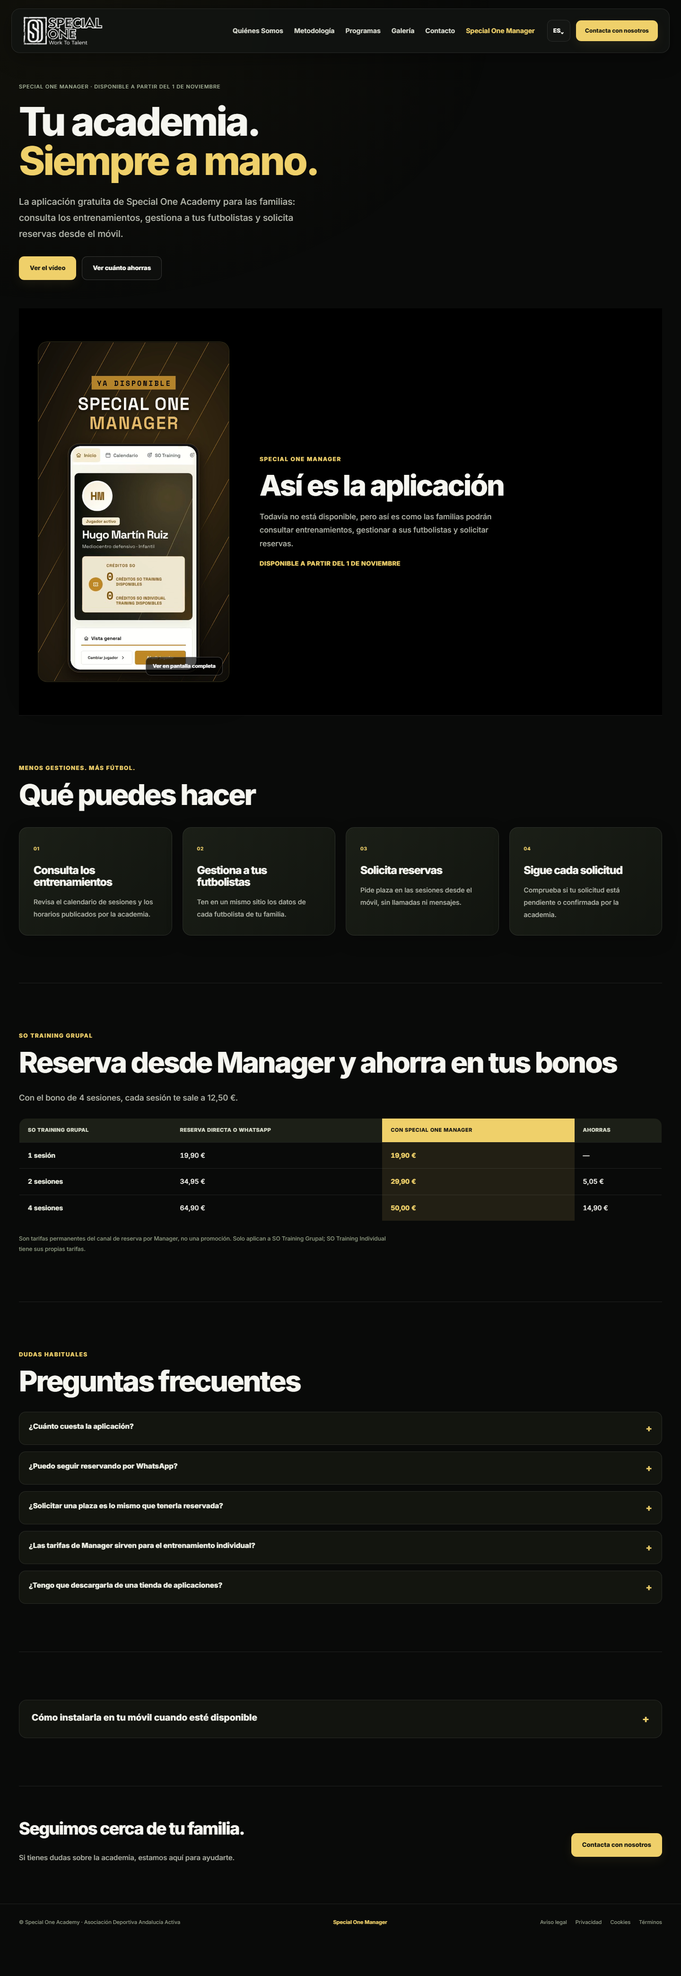
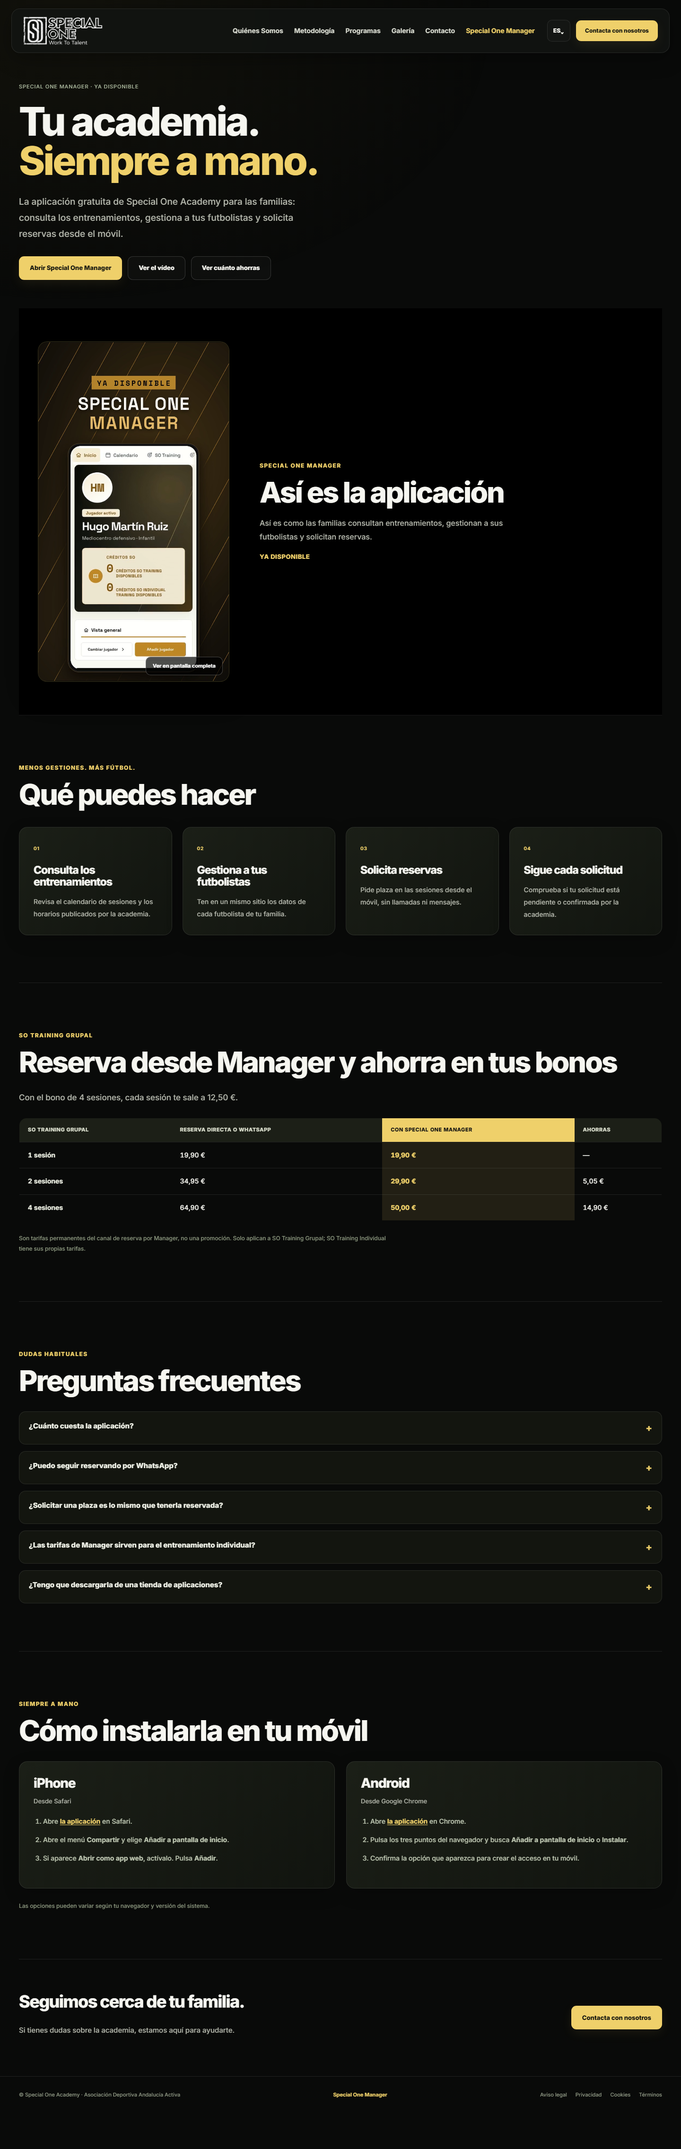
Prepare Special One Manager launch day branch
Add a single source of truth for the app URL (assets/app-config.js,
window.SOA_APP_URL = "APP_URL_PENDIENTE") wired at runtime via
site-shell.js to every access button/link (data-app-link attribute):
the homepage Manager block CTA, the Manager page's new primary "Abrir
Special One Manager" button, and the first install step for iPhone and
Android.

Flip all "coming soon" messaging to "Ya disponible", unfold the
install guide (no longer behind <details>, title drops "cuando esté
disponible"), update the video intro copy to present tense, remove
noindex/nofollow from special-one-manager.html and add canonical + Open
Graph tags (image = video poster), and list the page in sitemap.xml.

To go live: edit specialone-vercel-clean/assets/app-config.js only.

diff --git a/specialone-vercel-clean/special-one-manager.html b/specialone-vercel-clean/special-one-manager.html
@@ -6,7 +6,13 @@
 <meta content="width=device-width,initial-scale=1" name="viewport"/>
 <title>Special One Manager · Tu academia, más cerca</title>
 <meta content="Conoce Special One Manager: la aplicación gratuita de Special One Academy para que las familias consulten entrenamientos, gestionen futbolistas y soliciten reservas." name="description"/>
-<meta content="noindex,nofollow" name="robots"/>
+<meta content="index, follow" name="robots"/>
+<link href="https://www.academiaspecialone.es/special-one-manager.html" rel="canonical"/>
+<meta content="Special One Manager | Special One Academy" property="og:title"/>
+<meta content="La aplicación gratuita de Special One Academy para las familias: consulta entrenamientos, gestiona futbolistas y solicita reservas." property="og:description"/>
+<meta content="website" property="og:type"/>
+<meta content="https://www.academiaspecialone.es/special-one-manager.html" property="og:url"/>
+<meta content="https://www.academiaspecialone.es/assets/manager-poster.jpg" property="og:image"/>
 <link href="https://fonts.googleapis.com" rel="preconnect"/>
 <link crossorigin="" href="https://fonts.gstatic.com" rel="preconnect"/>
 <link href="https://fonts.googleapis.com/css2?family=Inter:wght@500;700;800;900&amp;display=swap" rel="stylesheet"/>
@@ -30,11 +36,12 @@
 </header>
 <main>
 <section aria-labelledby="manager-title" class="manager-intro">
-<div class="manager-label" data-en="SPECIAL ONE MANAGER · AVAILABLE FROM NOVEMBER 1" data-es="SPECIAL ONE MANAGER · DISPONIBLE A PARTIR DEL 1 DE NOVIEMBRE">SPECIAL ONE MANAGER · DISPONIBLE A PARTIR DEL 1 DE NOVIEMBRE</div>
+<div class="manager-label" data-en="SPECIAL ONE MANAGER · AVAILABLE NOW" data-es="SPECIAL ONE MANAGER · YA DISPONIBLE">SPECIAL ONE MANAGER · YA DISPONIBLE</div>
 <h1 data-en="Your academy.&lt;br&gt;&lt;span&gt;Always at hand.&lt;/span&gt;" data-es="Tu academia.&lt;br&gt;&lt;span&gt;Siempre a mano.&lt;/span&gt;" data-rich="" id="manager-title">Tu academia.<br/><span>Siempre a mano.</span></h1>
 <p class="manager-lead" data-en="Special One Academy's free app for families: check training sessions, manage your players and request bookings from your phone." data-es="La aplicación gratuita de Special One Academy para las familias: consulta los entrenamientos, gestiona a tus futbolistas y solicita reservas desde el móvil.">La aplicación gratuita de Special One Academy para las familias: consulta los entrenamientos, gestiona a tus futbolistas y solicita reservas desde el móvil.</p>
 <div class="manager-hero-actions">
-<a class="btn" data-en="Watch the video" data-es="Ver el vídeo" href="#video-manager">Ver el vídeo</a>
+<a class="btn" data-app-link="" data-en="Open Special One Manager" data-es="Abrir Special One Manager" href="#video-manager">Abrir Special One Manager</a>
+<a class="btn secondary" data-en="Watch the video" data-es="Ver el vídeo" href="#video-manager">Ver el vídeo</a>
 <a class="btn secondary" data-en="See how much you save" data-es="Ver cuánto ahorras" href="#ahorro">Ver cuánto ahorras</a>
 </div>
 </section>
@@ -47,8 +54,8 @@
 <div class="manager-video-copy">
 <div class="manager-kicker" data-en="Special One Manager" data-es="Special One Manager">Special One Manager</div>
 <h2 data-en="This is the app" data-es="Así es la aplicación">Así es la aplicación</h2>
-<p data-en="Still not available, but this is how families will check training sessions, manage players and request bookings." data-es="Todavía no está disponible, pero así es como las familias podrán consultar entrenamientos, gestionar a sus futbolistas y solicitar reservas.">Todavía no está disponible, pero así es como las familias podrán consultar entrenamientos, gestionar a sus futbolistas y solicitar reservas.</p>
-<p class="manager-video-caption video-launch-status" data-en="AVAILABLE FROM NOVEMBER 1" data-es="DISPONIBLE A PARTIR DEL 1 DE NOVIEMBRE">DISPONIBLE A PARTIR DEL 1 DE NOVIEMBRE</p>
+<p data-en="This is how families check training sessions, manage players and request bookings." data-es="Así es como las familias consultan entrenamientos, gestionan a sus futbolistas y solicitan reservas.">Así es como las familias consultan entrenamientos, gestionan a sus futbolistas y solicitan reservas.</p>
+<p class="manager-video-caption video-launch-status" data-en="AVAILABLE NOW" data-es="YA DISPONIBLE">YA DISPONIBLE</p>
 </div>
 </div>
 </section>
@@ -92,14 +99,13 @@
 </div>
 </section>
 <section aria-labelledby="install-title" class="manager-section" id="instalar">
-<details class="install-details">
-<summary data-en="How to install it on your phone once it's available" data-es="Cómo instalarla en tu móvil cuando esté disponible" id="install-title">Cómo instalarla en tu móvil cuando esté disponible</summary>
+<div class="manager-kicker" data-en="Always at hand" data-es="Siempre a mano">Siempre a mano</div>
+<h2 data-en="How to install it on your phone" data-es="Cómo instalarla en tu móvil" id="install-title">Cómo instalarla en tu móvil</h2>
 <div class="manager-install">
-<article class="manager-device"><h3>iPhone</h3><p data-en="Using Safari" data-es="Desde Safari">Desde Safari</p><ol><li data-en="Open the app in Safari." data-es="Abre la aplicación en Safari.">Abre la aplicación en Safari.</li><li data-en="Tap &lt;strong&gt;Share&lt;/strong&gt;, then &lt;strong&gt;Add to Home Screen&lt;/strong&gt;." data-es="Abre el menú &lt;strong&gt;Compartir&lt;/strong&gt; y elige &lt;strong&gt;Añadir a pantalla de inicio&lt;/strong&gt;." data-rich="">Abre el menú <strong>Compartir</strong> y elige <strong>Añadir a pantalla de inicio</strong>.</li><li data-en="If &lt;strong&gt;Open as Web App&lt;/strong&gt; appears, turn it on. Tap &lt;strong&gt;Add&lt;/strong&gt;." data-es="Si aparece &lt;strong&gt;Abrir como app web&lt;/strong&gt;, actívalo. Pulsa &lt;strong&gt;Añadir&lt;/strong&gt;." data-rich="">Si aparece <strong>Abrir como app web</strong>, actívalo. Pulsa <strong>Añadir</strong>.</li></ol></article>
-<article class="manager-device"><h3>Android</h3><p data-en="Using Google Chrome" data-es="Desde Google Chrome">Desde Google Chrome</p><ol><li data-en="Open the app in Chrome." data-es="Abre la aplicación en Chrome.">Abre la aplicación en Chrome.</li><li data-en="Tap the three-dot browser menu and choose &lt;strong&gt;Add to Home Screen&lt;/strong&gt; or &lt;strong&gt;Install&lt;/strong&gt;." data-es="Pulsa los tres puntos del navegador y busca &lt;strong&gt;Añadir a pantalla de inicio&lt;/strong&gt; o &lt;strong&gt;Instalar&lt;/strong&gt;." data-rich="">Pulsa los tres puntos del navegador y busca <strong>Añadir a pantalla de inicio</strong> o <strong>Instalar</strong>.</li><li data-en="Confirm the option shown to add the app to your phone." data-es="Confirma la opción que aparezca para crear el acceso en tu móvil.">Confirma la opción que aparezca para crear el acceso en tu móvil.</li></ol></article>
+<article class="manager-device"><h3>iPhone</h3><p data-en="Using Safari" data-es="Desde Safari">Desde Safari</p><ol><li>Abre <a data-app-link="" href="#">la aplicación</a> en Safari.</li><li data-en="Tap &lt;strong&gt;Share&lt;/strong&gt;, then &lt;strong&gt;Add to Home Screen&lt;/strong&gt;." data-es="Abre el menú &lt;strong&gt;Compartir&lt;/strong&gt; y elige &lt;strong&gt;Añadir a pantalla de inicio&lt;/strong&gt;." data-rich="">Abre el menú <strong>Compartir</strong> y elige <strong>Añadir a pantalla de inicio</strong>.</li><li data-en="If &lt;strong&gt;Open as Web App&lt;/strong&gt; appears, turn it on. Tap &lt;strong&gt;Add&lt;/strong&gt;." data-es="Si aparece &lt;strong&gt;Abrir como app web&lt;/strong&gt;, actívalo. Pulsa &lt;strong&gt;Añadir&lt;/strong&gt;." data-rich="">Si aparece <strong>Abrir como app web</strong>, actívalo. Pulsa <strong>Añadir</strong>.</li></ol></article>
+<article class="manager-device"><h3>Android</h3><p data-en="Using Google Chrome" data-es="Desde Google Chrome">Desde Google Chrome</p><ol><li>Abre <a data-app-link="" href="#">la aplicación</a> en Chrome.</li><li data-en="Tap the three-dot browser menu and choose &lt;strong&gt;Add to Home Screen&lt;/strong&gt; or &lt;strong&gt;Install&lt;/strong&gt;." data-es="Pulsa los tres puntos del navegador y busca &lt;strong&gt;Añadir a pantalla de inicio&lt;/strong&gt; o &lt;strong&gt;Instalar&lt;/strong&gt;." data-rich="">Pulsa los tres puntos del navegador y busca <strong>Añadir a pantalla de inicio</strong> o <strong>Instalar</strong>.</li><li data-en="Confirm the option shown to add the app to your phone." data-es="Confirma la opción que aparezca para crear el acceso en tu móvil.">Confirma la opción que aparezca para crear el acceso en tu móvil.</li></ol></article>
 </div>
-<p class="manager-note" data-en="Options vary by browser and operating system. Add the app, not this presentation page." data-es="Las opciones pueden variar según tu navegador y versión del sistema. Añade la aplicación, no esta página de presentación.">Las opciones pueden variar según tu navegador y versión del sistema. Añade la aplicación, no esta página de presentación.</p>
-</details>
+<p class="manager-note" data-en="Options vary by browser and operating system." data-es="Las opciones pueden variar según tu navegador y versión del sistema.">Las opciones pueden variar según tu navegador y versión del sistema.</p>
 </section>
 <section class="manager-finish"><div><h2 data-en="Closer to your family." data-es="Seguimos cerca de tu familia.">Seguimos cerca de tu familia.</h2><p data-en="If you have questions about the academy, we are here to help." data-es="Si tienes dudas sobre la academia, estamos aquí para ayudarte.">Si tienes dudas sobre la academia, estamos aquí para ayudarte.</p></div><a class="btn" data-en="Contact us" data-es="Contacta con nosotros" href="/#contacto">Contacta con nosotros</a></section>
 </main>
@@ -128,5 +134,6 @@ document.querySelector('.lang').addEventListener('click',()=>applyManagerLanguag
   else if(video.webkitEnterFullscreen) video.webkitEnterFullscreen();
  });
 })();
-</script><script src="assets/site-shell.js?v=1"></script></body>
+</script><script src="assets/app-config.js?v=1"></script>
+<script src="assets/site-shell.js?v=1"></script></body>
 </html>

diff --git a/specialone-vercel-clean/index.html b/specialone-vercel-clean/index.html
@@ -72,7 +72,7 @@ gtag("config", "G-HH45EVVGY7");
 </div>
 </header>
 <div id="season-floating-banner" role="region"><div class="season-bar"><button class="season-cta" data-en="Enrollment open in SO Training · Request a place →" data-es="Inscripciones abiertas en SO Training · Solicitar plaza →" onclick="openTally('NpMjqB')" type="button">Inscripciones abiertas en SO Training · Solicitar plaza →</button><button aria-label="Cerrar aviso" id="season-close" type="button">×</button></div></div>
-<section aria-labelledby="hero-title" class="hero"><div class="hero-stage container"><div class="hero-photo"><img alt="Jugador de Special One Academy durante un entrenamiento" fetchpriority="high" height="1440" src="assets/img/hero.jpg" width="1920"/></div><div class="hero-copy"><div class="hero-brandline" data-en="SPECIAL ONE ACADEMY · WORK TO TALENT" data-es="SPECIAL ONE ACADEMY · WORK TO TALENT">SPECIAL ONE ACADEMY · WORK TO TALENT</div><h1 data-en="Football training academy in Seville" data-es="Academia de tecnificación de fútbol en Sevilla" id="hero-title">Academia de tecnificación de fútbol en Sevilla</h1><p data-en="Specific training, close attention and qualified coaches to complement the work the player does at their club." data-es="Entrenamiento específico, atención cercana y entrenadores cualificados para complementar el trabajo que el futbolista hace en su club.">Entrenamiento específico, atención cercana y entrenadores cualificados para complementar el trabajo que el futbolista hace en su club.</p><div class="hero-actions"><a class="btn" data-en="See programs" data-es="Ver programas" href="#programas">Ver programas</a><a class="btn secondary" data-en="Talk on WhatsApp" data-es="Hablar por WhatsApp" href="https://wa.me/34614806029" rel="noopener" target="_blank">Hablar por WhatsApp</a></div><div class="hero-signature" data-en="Players and goalkeepers · Work To Talent" data-es="Jugadores, jugadoras y porteros · Work To Talent">Jugadores, jugadoras y porteros · Work To Talent</div></div><aside aria-labelledby="hero-manager-title" class="hero-manager"><div class="eyebrow" data-en="AVAILABLE FROM NOVEMBER 1" data-es="DISPONIBLE A PARTIR DEL 1 DE NOVIEMBRE">DISPONIBLE A PARTIR DEL 1 DE NOVIEMBRE</div><h2 data-en="Special One Manager, the academy's app for families" data-es="Special One Manager, la app de la academia para las familias" id="hero-manager-title">Special One Manager, la app de la academia para las familias</h2><div class="video-shell"><video aria-label="Vídeo de presentación de Special One Manager" class="manager-film" controls="" playsinline="" poster="assets/manager-poster.jpg" preload="metadata"><source src="assets/special-one-manager.mp4" type="video/mp4"/></video><p class="video-launch-status" data-en="AVAILABLE FROM NOVEMBER 1" data-es="DISPONIBLE A PARTIR DEL 1 DE NOVIEMBRE">DISPONIBLE A PARTIR DEL 1 DE NOVIEMBRE</p></div><p data-en="Check training sessions and request bookings from your phone. And if you book your SO Training Group bundles through the app, each session costs less." data-es="Consulta entrenamientos y solicita reservas desde el móvil. Y si reservas tus bonos de SO Training Grupal desde la app, cada sesión te sale más barata.">Consulta entrenamientos y solicita reservas desde el móvil. Y si reservas tus bonos de SO Training Grupal desde la app, cada sesión te sale más barata.</p><a class="btn hero-manager-cta" data-en="Discover Special One Manager →" data-es="Conocer Special One Manager →" href="/special-one-manager.html">Conocer Special One Manager →</a></aside></div></section>
+<section aria-labelledby="hero-title" class="hero"><div class="hero-stage container"><div class="hero-photo"><img alt="Jugador de Special One Academy durante un entrenamiento" fetchpriority="high" height="1440" src="assets/img/hero.jpg" width="1920"/></div><div class="hero-copy"><div class="hero-brandline" data-en="SPECIAL ONE ACADEMY · WORK TO TALENT" data-es="SPECIAL ONE ACADEMY · WORK TO TALENT">SPECIAL ONE ACADEMY · WORK TO TALENT</div><h1 data-en="Football training academy in Seville" data-es="Academia de tecnificación de fútbol en Sevilla" id="hero-title">Academia de tecnificación de fútbol en Sevilla</h1><p data-en="Specific training, close attention and qualified coaches to complement the work the player does at their club." data-es="Entrenamiento específico, atención cercana y entrenadores cualificados para complementar el trabajo que el futbolista hace en su club.">Entrenamiento específico, atención cercana y entrenadores cualificados para complementar el trabajo que el futbolista hace en su club.</p><div class="hero-actions"><a class="btn" data-en="See programs" data-es="Ver programas" href="#programas">Ver programas</a><a class="btn secondary" data-en="Talk on WhatsApp" data-es="Hablar por WhatsApp" href="https://wa.me/34614806029" rel="noopener" target="_blank">Hablar por WhatsApp</a></div><div class="hero-signature" data-en="Players and goalkeepers · Work To Talent" data-es="Jugadores, jugadoras y porteros · Work To Talent">Jugadores, jugadoras y porteros · Work To Talent</div></div><aside aria-labelledby="hero-manager-title" class="hero-manager"><div class="eyebrow" data-en="AVAILABLE NOW" data-es="YA DISPONIBLE">YA DISPONIBLE</div><h2 data-en="Special One Manager, the academy's app for families" data-es="Special One Manager, la app de la academia para las familias" id="hero-manager-title">Special One Manager, la app de la academia para las familias</h2><div class="video-shell"><video aria-label="Vídeo de presentación de Special One Manager" class="manager-film" controls="" playsinline="" poster="assets/manager-poster.jpg" preload="metadata"><source src="assets/special-one-manager.mp4" type="video/mp4"/></video><p class="video-launch-status" data-en="AVAILABLE NOW" data-es="YA DISPONIBLE">YA DISPONIBLE</p></div><p data-en="Check training sessions and request bookings from your phone. And if you book your SO Training Group bundles through the app, each session costs less." data-es="Consulta entrenamientos y solicita reservas desde el móvil. Y si reservas tus bonos de SO Training Grupal desde la app, cada sesión te sale más barata.">Consulta entrenamientos y solicita reservas desde el móvil. Y si reservas tus bonos de SO Training Grupal desde la app, cada sesión te sale más barata.</p><a class="btn hero-manager-cta" data-app-link="" data-en="Open Special One Manager" data-es="Abrir Special One Manager" href="/special-one-manager.html">Abrir Special One Manager</a></aside></div></section>
 <div class="launch-trust container"> <div class="hero-feature">
 <div class="icon-box">
 <svg fill="none" stroke="currentColor" viewbox="0 0 24 24"><path d="M16 21v-2a4 4 0 0 0-8 0v2"></path><circle cx="12" cy="7" r="4"></circle><path d="M22 21v-2a4 4 0 0 0-3-3.87"></path><path d="M2 21v-2a4 4 0 0 1 3-3.87"></path></svg>
@@ -347,5 +347,6 @@ gtag("config", "G-HH45EVVGY7");
 </div>
 </div>
 <script src="assets/script.js?v=16-audit"></script>
+<script src="assets/app-config.js?v=1"></script>
 <script src="assets/site-shell.js?v=1"></script></body>
 </html>

diff --git a/specialone-vercel-clean/assets/site-system.css b/specialone-vercel-clean/assets/site-system.css
@@ -42,7 +42,7 @@
 .install-details[open] summary:after{content:'−'}
 .install-details .manager-install{margin-top:28px}
 @media(max-width:860px){.manager-video-stage{grid-template-columns:1fr;gap:28px}.manager-video-section .video-shell{height:auto;width:100%}.manager-video-section .manager-film{height:auto;width:100%}.manager-video-copy{max-width:100%}}
-@media(max-width:600px){.rates-table thead{display:none}.rates-table,.rates-table tbody,.rates-table tr{display:block;width:100%}.rates-table{border:0}.rates-table tr{margin-bottom:14px;border:1px solid #95844177;border-radius:14px;overflow:hidden;background:#171c12}.rates-table th[scope=row]{display:block;padding:14px 16px 4px;font-size:15px;border-bottom:0}.rates-table td{display:flex;justify-content:space-between;align-items:center;padding:10px 16px;border-bottom:1px solid var(--line);font-size:13px}.rates-table td:last-child{border-bottom:0}.rates-table td:before{content:attr(data-label);color:#9aa38d;font-size:11px;font-weight:700}.rates-table td.rates-table-highlight{background:transparent}.install-details{padding:20px}.install-details summary{font-size:17px}}.manager-number{font-size:10px;letter-spacing:.07em;color:var(--gold);font-weight:700}.manager-note{font-size:12px!important;color:#8f9b82!important;margin:26px 0 0!important}.manager-install{display:grid;grid-template-columns:1fr 1fr;gap:24px;margin-top:32px}.manager-device h3{font-size:28px;margin:0 0 12px}.manager-device p{font-size:13px}.manager-device ol{padding-left:20px;color:#bdc6b1;font-size:14px;line-height:1.9}.manager-device li{padding:6px 0}.manager-finish{display:flex;justify-content:space-between;gap:30px;align-items:center;padding:70px 0}.manager-finish h2{font-size:36px}.manager-finish p{font-size:15px}.training-rates{padding:36px;border:1px solid #95844177;border-radius:22px;background:radial-gradient(ellipse at 100% 0,#8d73241c,transparent 75%),#171c12}.rates-heading{font-size:13px;font-weight:800;letter-spacing:.05em;color:var(--gold);line-height:1.7}.rate-grid{display:grid;grid-template-columns:repeat(3,1fr);gap:30px;margin:30px 0}.rate-grid>div+div{border-left:1px solid var(--line);padding-left:30px}.rate-grid span{display:block;font-size:14px;color:#b9c2ac;margin-bottom:10px}.rate-grid strong{font-size:clamp(30px,3.6vw,54px);line-height:1;font-weight:800;letter-spacing:-.05em;white-space:nowrap}.training-rates>p{font-size:13px;line-height:1.8;color:#a8b39b;margin:0;max-width:820px}
+@media(max-width:600px){.rates-table thead{display:none}.rates-table,.rates-table tbody,.rates-table tr{display:block;width:100%}.rates-table{border:0}.rates-table tr{margin-bottom:14px;border:1px solid #95844177;border-radius:14px;overflow:hidden;background:#171c12}.rates-table th[scope=row]{display:block;padding:14px 16px 4px;font-size:15px;border-bottom:0}.rates-table td{display:flex;justify-content:space-between;align-items:center;padding:10px 16px;border-bottom:1px solid var(--line);font-size:13px}.rates-table td:last-child{border-bottom:0}.rates-table td:before{content:attr(data-label);color:#9aa38d;font-size:11px;font-weight:700}.rates-table td.rates-table-highlight{background:transparent}.install-details{padding:20px}.install-details summary{font-size:17px}}.manager-number{font-size:10px;letter-spacing:.07em;color:var(--gold);font-weight:700}.manager-note{font-size:12px!important;color:#8f9b82!important;margin:26px 0 0!important}.manager-install{display:grid;grid-template-columns:1fr 1fr;gap:24px;margin-top:32px}.manager-device h3{font-size:28px;margin:0 0 12px}.manager-device p{font-size:13px}.manager-device ol{padding-left:20px;color:#bdc6b1;font-size:14px;line-height:1.9}.manager-device ol a{color:var(--gold);font-weight:700;text-decoration:underline;text-underline-offset:2px}.manager-device li{padding:6px 0}.manager-finish{display:flex;justify-content:space-between;gap:30px;align-items:center;padding:70px 0}.manager-finish h2{font-size:36px}.manager-finish p{font-size:15px}.training-rates{padding:36px;border:1px solid #95844177;border-radius:22px;background:radial-gradient(ellipse at 100% 0,#8d73241c,transparent 75%),#171c12}.rates-heading{font-size:13px;font-weight:800;letter-spacing:.05em;color:var(--gold);line-height:1.7}.rate-grid{display:grid;grid-template-columns:repeat(3,1fr);gap:30px;margin:30px 0}.rate-grid>div+div{border-left:1px solid var(--line);padding-left:30px}.rate-grid span{display:block;font-size:14px;color:#b9c2ac;margin-bottom:10px}.rate-grid strong{font-size:clamp(30px,3.6vw,54px);line-height:1;font-weight:800;letter-spacing:-.05em;white-space:nowrap}.training-rates>p{font-size:13px;line-height:1.8;color:#a8b39b;margin:0;max-width:820px}
 /* Existing operational controls: inline registration banner, chat and consent. */
 #season-floating-banner{position:fixed;top:118px;left:0;right:0;z-index:70;display:none;padding:0 24px}#season-floating-banner.show{display:block}.season-bar{display:flex;align-items:center;gap:8px;max-width:760px;margin:0 auto;padding:7px 8px 7px 18px;border:1px solid #cfb25966;border-radius:999px;background:#1c1a10ee;backdrop-filter:blur(14px);box-shadow:0 10px 30px #0005}.season-cta{flex:1;min-height:44px;border:0;background:transparent;color:#f0e6c2;font-size:12px;font-weight:750;text-align:left;cursor:pointer;padding:0}.season-cta:hover{color:var(--gold)}#season-close{flex-shrink:0;width:44px;height:44px;border-radius:50%;background:#ffffff10;border:0;color:#ddd;font-size:17px;cursor:pointer}
 .reveal{opacity:1;animation:rise .65s both}.reveal.on{animation:none}@keyframes rise{from{opacity:0;transform:translateY(18px)}to{opacity:1;transform:none}}

diff --git a/specialone-vercel-clean/assets/site-shell.js b/specialone-vercel-clean/assets/site-shell.js
@@ -1,1 +1,2 @@
+(()=>{if(window.SOA_APP_URL){document.querySelectorAll('[data-app-link]').forEach(el=>el.setAttribute('href',window.SOA_APP_URL))}})();
 (()=>{const nav=document.querySelector('.nav'),toggle=document.querySelector('.mobile-toggle');const close=()=>{nav?.classList.remove('open');toggle?.setAttribute('aria-expanded','false')};toggle?.addEventListener('click',()=>{const open=nav.classList.toggle('open');toggle.setAttribute('aria-expanded',String(open))});document.querySelectorAll('.links a').forEach(a=>a.addEventListener('click',close));document.addEventListener('keydown',e=>{if(e.key==='Escape')close()});const scroll=()=>nav?.classList.toggle('scrolled',window.scrollY>20);window.addEventListener('scroll',scroll,{passive:true});scroll();const io=new IntersectionObserver(entries=>entries.forEach(e=>{if(e.isIntersecting){e.target.classList.add('on');io.unobserve(e.target)}}),{threshold:.08});document.querySelectorAll('.reveal').forEach(el=>io.observe(el));})();

diff --git a/specialone-vercel-clean/assets/app-config.js b/specialone-vercel-clean/assets/app-config.js
@@ -1,0 +1,3 @@
+/* Single source of truth for the Special One Manager app URL.
+   Change ONLY this value when the app goes live. */
+window.SOA_APP_URL = "APP_URL_PENDIENTE";
